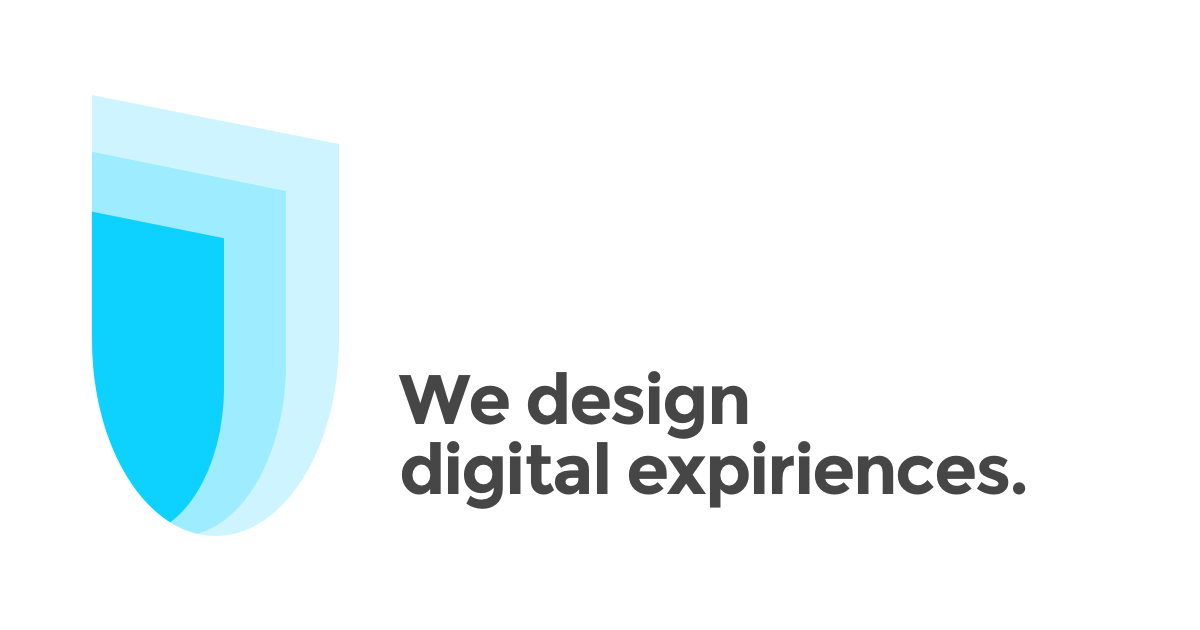
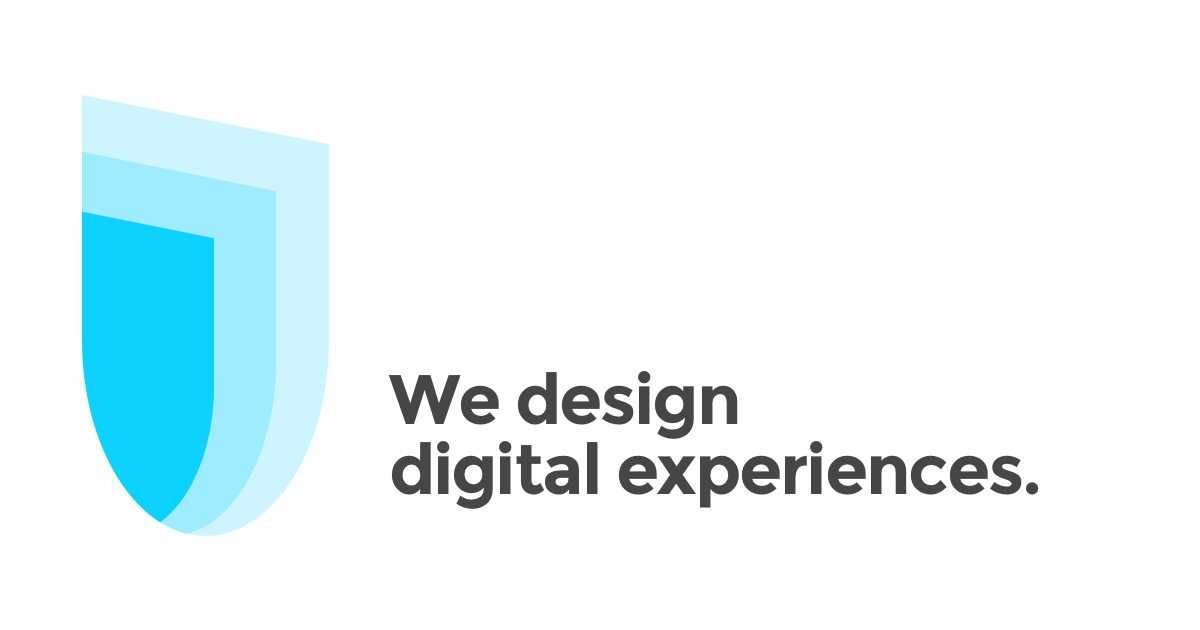
Updated typo

diff --git a/_pages/landing.html b/_pages/landing.html
@@ -6,7 +6,7 @@ description: underlayer is design and development studio that strives to design 
 ---
 <div class="landing">
     <section class="hero">
-        <h1 class="hero__title">We design<br>digital expiriences</h1>
+        <h1 class="hero__title">We design<br>digital experiences</h1>
         {% include git.html %}
         <div class="img-resp">
             <img src="/assets/img/underlayer-hero-illustration@2x.png" alt="illustration">
